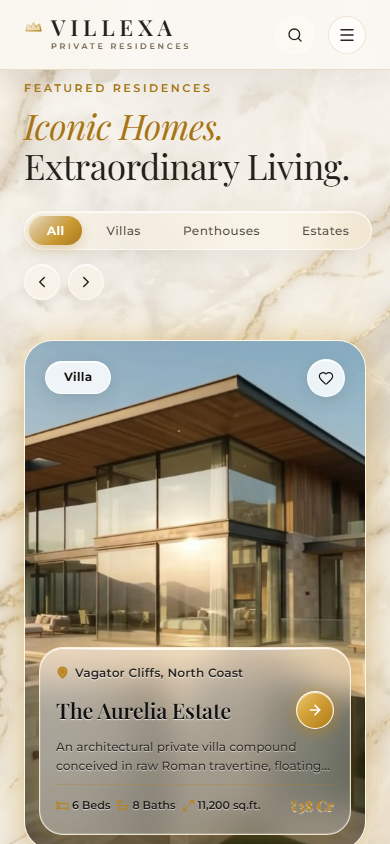
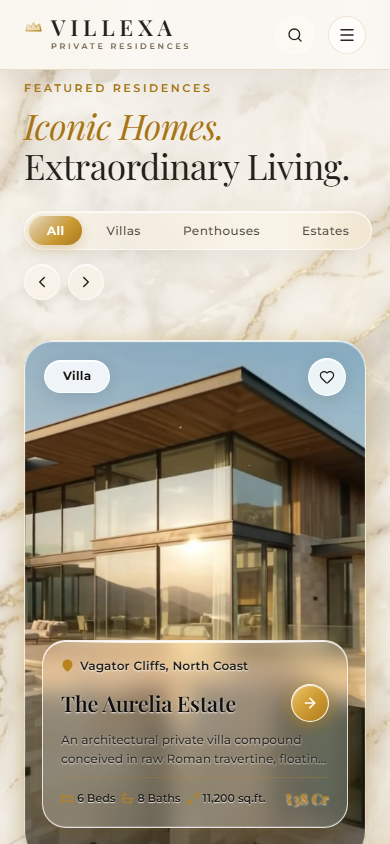
Update

Changed region(s): [[0.0615, 0.4005, 0.9538, 1.0], [0.4308, 0.5237, 0.4923, 0.5545], [0.1231, 0.4005, 0.1538, 0.4313]]

diff --git a/src/components/property/PropertyCard.tsx b/src/components/property/PropertyCard.tsx
@@ -91,22 +91,32 @@ export const PropertyCard: React.FC<PropertyCardProps> = ({ property, priority =
       style={{
         position: 'relative',
         borderRadius: '28px',
-        overflow: 'hidden',
+        overflow: 'visible',
         display: 'flex',
         flexDirection: 'column',
         justifyContent: 'space-between',
-        minHeight: '510px',
-        border: '1.5px solid rgba(255, 248, 230, 0.95)',
-        borderColor: isHovered ? 'rgba(245, 215, 140, 1)' : 'rgba(255, 248, 230, 0.95)',
-        boxShadow: isHovered
-          ? '0 24px 56px -8px rgba(45, 32, 20, 0.18), 0 0 36px rgba(225, 180, 85, 0.55), 0 0 75px rgba(225, 180, 85, 0.30), inset 0 1px 2px rgba(255, 255, 255, 0.95)'
-          : '0 18px 45px -10px rgba(45, 32, 20, 0.14), 0 0 28px rgba(225, 180, 85, 0.40), 0 0 55px rgba(225, 180, 85, 0.20), inset 0 1px 1px rgba(255, 255, 255, 0.9)',
+        minHeight: '520px',
         transform: 'translateY(0)',
-        transition: 'border-color 0.4s ease, box-shadow 0.4s ease',
-        backgroundColor: '#FAF8F5'
+        transition: 'all 0.4s ease'
       }}
     >
-      {/* 1. LARGE ARCHITECTURAL PHOTOGRAPHY (Main Visual Backdrop) */}
+      {/* Outer Border & Subtle Frame Glow (zIndex: 2, non-blocking) */}
+      <div
+        style={{
+          position: 'absolute',
+          inset: 0,
+          borderRadius: '28px',
+          border: isHovered ? '1.5px solid rgba(250, 220, 150, 0.95)' : '1.5px solid rgba(255, 248, 230, 0.90)',
+          boxShadow: isHovered
+            ? '0 20px 48px rgba(45, 32, 20, 0.16), 0 0 30px rgba(220, 175, 75, 0.45), inset 0 1px 2px rgba(255, 255, 255, 0.95)'
+            : '0 14px 36px rgba(45, 32, 20, 0.12), 0 0 20px rgba(220, 175, 75, 0.30), inset 0 1px 1px rgba(255, 255, 255, 0.90)',
+          pointerEvents: 'none',
+          zIndex: 2,
+          transition: 'border-color 0.4s ease, box-shadow 0.4s ease'
+        }}
+      />
+
+      {/* 1. LARGE ARCHITECTURAL PHOTOGRAPHY (Main Visual Backdrop, clipped to 28px radius) */}
       <div
         style={{
           position: 'absolute',
@@ -114,7 +124,9 @@ export const PropertyCard: React.FC<PropertyCardProps> = ({ property, priority =
           width: '100%',
           height: '100%',
           overflow: 'hidden',
-          zIndex: 1
+          borderRadius: '28px',
+          zIndex: 1,
+          backgroundColor: '#FAF8F5'
         }}
       >
         {/* Video Preview or Cover Image — Stable on hover */}
@@ -169,7 +181,7 @@ export const PropertyCard: React.FC<PropertyCardProps> = ({ property, priority =
       <div
         style={{
           position: 'relative',
-          zIndex: 3,
+          zIndex: 4,
           padding: '18px 20px',
           display: 'flex',
           justifyContent: 'space-between',
@@ -230,26 +242,26 @@ export const PropertyCard: React.FC<PropertyCardProps> = ({ property, priority =
         className="property-glass-card glass-panel-integrated floating-glass-panel"
         style={{
           position: 'relative',
-          zIndex: 3,
-          margin: '0 14px 14px 14px',
+          zIndex: 4,
+          margin: '0 18px 24px 18px',
           marginTop: 'auto',
-          padding: '16px 16px',
+          padding: '16px 18px',
           display: 'flex',
           flexDirection: 'column',
           gap: '9px',
           borderRadius: '24px',
           background: isHovered
-            ? 'linear-gradient(145deg, rgba(255, 252, 246, 0.52) 0%, rgba(246, 239, 224, 0.38) 100%)'
-            : 'linear-gradient(145deg, rgba(255, 252, 246, 0.46) 0%, rgba(246, 239, 224, 0.32) 100%)',
-          backdropFilter: 'blur(16px) saturate(125%)',
-          WebkitBackdropFilter: 'blur(16px) saturate(125%)',
+            ? 'rgba(246, 239, 224, 0.28)'
+            : 'rgba(246, 239, 224, 0.24)',
+          backdropFilter: 'blur(12px) saturate(155%)',
+          WebkitBackdropFilter: 'blur(12px) saturate(155%)',
           border: isHovered
-            ? '1px solid rgba(255, 255, 255, 0.95)'
-            : '1px solid rgba(255, 248, 230, 0.82)',
-          transform: isHovered && !prefersReducedMotion ? 'translateY(-10px)' : 'translateY(0)',
+            ? '1px solid rgba(255, 255, 255, 0.92)'
+            : '1px solid rgba(255, 255, 255, 0.78)',
+          transform: isHovered && !prefersReducedMotion ? 'translateY(-16px)' : 'translateY(-8px)',
           boxShadow: isHovered
-            ? '0 24px 50px rgba(45, 32, 20, 0.22), 0 0 35px rgba(225, 180, 75, 0.50), 0 0 70px rgba(225, 180, 75, 0.25), inset 0 1px 1.5px rgba(255, 255, 255, 1), inset 0 -1px 1px rgba(255, 255, 255, 0.35)'
-            : '0 16px 36px rgba(45, 32, 20, 0.16), 0 0 25px rgba(225, 180, 75, 0.35), 0 0 50px rgba(225, 180, 75, 0.18), inset 0 1px 1px rgba(255, 255, 255, 0.92), inset 0 -1px 1px rgba(255, 255, 255, 0.20)',
+            ? '0 28px 52px rgba(42, 27, 12, 0.28), 0 12px 22px rgba(42, 27, 12, 0.16), 0 0 35px rgba(218, 169, 75, 0.45), 0 0 65px rgba(218, 169, 75, 0.22), inset 0 1.5px 0 rgba(255, 255, 255, 1.0), inset 0 -1px 0 rgba(255, 255, 255, 0.30)'
+            : '0 20px 38px rgba(42, 27, 12, 0.22), 0 8px 16px rgba(42, 27, 12, 0.12), 0 0 25px rgba(218, 169, 75, 0.30), 0 0 50px rgba(218, 169, 75, 0.14), inset 0 1px 0 rgba(255, 255, 255, 0.90), inset 0 -1px 0 rgba(255, 255, 255, 0.20)',
           transition: 'transform 400ms cubic-bezier(0.2, 0.75, 0.25, 1), box-shadow 400ms ease, border-color 400ms ease, background 400ms ease'
         }}
       >
@@ -263,9 +275,11 @@ export const PropertyCard: React.FC<PropertyCardProps> = ({ property, priority =
             height: '2.5px',
             background: 'linear-gradient(90deg, transparent 0%, rgba(255, 255, 255, 0.98) 25%, #FFFBEA 50%, rgba(255, 255, 255, 0.98) 75%, transparent 100%)',
             pointerEvents: 'none',
-            boxShadow: '0 0 14px rgba(255, 255, 255, 1), 0 0 24px rgba(240, 200, 110, 0.85)',
-            opacity: isHovered ? 1 : 0.92,
-            transition: 'opacity 0.35s ease'
+            boxShadow: isHovered
+              ? '0 0 16px rgba(255, 255, 255, 1), 0 0 28px rgba(245, 215, 130, 0.95)'
+              : '0 0 12px rgba(255, 255, 255, 0.95), 0 0 22px rgba(240, 200, 110, 0.80)',
+            opacity: isHovered ? 1 : 0.88,
+            transition: 'opacity 0.35s ease, box-shadow 0.35s ease'
           }}
         />
 
@@ -275,14 +289,14 @@ export const PropertyCard: React.FC<PropertyCardProps> = ({ property, priority =
             display: 'inline-flex',
             alignItems: 'center',
             gap: '6px',
-            color: '#24211C',
+            color: '#201D18',
             fontSize: '11.5px',
             letterSpacing: '0.04em',
             fontWeight: 600,
-            textShadow: '0 1px 1px rgba(255, 255, 255, 0.7)'
+            textShadow: '0 1px 2px rgba(255, 255, 255, 0.85)'
           }}
         >
-          <MapPin size={13} strokeWidth={2.4} color="#B8831E" fill="#B8831E" fillOpacity={0.8} />
+          <MapPin size={13} strokeWidth={2.4} color="#B8831E" fill="#B8831E" />
           <span>{locationString}</span>
         </div>
 
@@ -292,12 +306,12 @@ export const PropertyCard: React.FC<PropertyCardProps> = ({ property, priority =
             style={{
               fontSize: 'clamp(1.35rem, 3.8vw, 1.55rem)',
               fontFamily: 'var(--font-serif)',
-              color: '#12100E',
-              fontWeight: 550,
+              color: '#110F0D',
+              fontWeight: 600,
               lineHeight: 1.15,
               margin: 0,
               letterSpacing: '-0.01em',
-              textShadow: '0 1px 1px rgba(255, 255, 255, 0.8)'
+              textShadow: '0 1px 2px rgba(255, 255, 255, 0.90)'
             }}
           >
             <Link
@@ -341,7 +355,7 @@ export const PropertyCard: React.FC<PropertyCardProps> = ({ property, priority =
         <p
           style={{
             fontSize: '12px',
-            color: '#28241E',
+            color: '#26221C',
             lineHeight: 1.55,
             margin: 0,
             display: '-webkit-box',
@@ -349,7 +363,7 @@ export const PropertyCard: React.FC<PropertyCardProps> = ({ property, priority =
             WebkitBoxOrient: 'vertical',
             overflow: 'hidden',
             fontWeight: 450,
-            textShadow: '0 1px 1px rgba(255, 255, 255, 0.6)'
+            textShadow: '0 1px 2px rgba(255, 255, 255, 0.80)'
           }}
         >
           {property.description || property.tagline}
@@ -362,12 +376,12 @@ export const PropertyCard: React.FC<PropertyCardProps> = ({ property, priority =
             alignItems: 'center',
             justifyContent: 'space-between',
             paddingTop: '9px',
-            borderTop: '1px solid rgba(184, 131, 30, 0.28)',
+            borderTop: '1px solid rgba(184, 131, 30, 0.30)',
             fontSize: '11px',
-            color: '#1C1A17',
+            color: '#1C1915',
             fontWeight: 550,
             gap: '6px',
-            textShadow: '0 1px 1px rgba(255, 255, 255, 0.6)'
+            textShadow: '0 1px 1px rgba(255, 255, 255, 0.80)'
           }}
         >
           <div style={{ display: 'flex', alignItems: 'center', gap: '6px', minWidth: 0, flexWrap: 'nowrap' }}>
@@ -397,7 +411,7 @@ export const PropertyCard: React.FC<PropertyCardProps> = ({ property, priority =
                 fontSize: '14.5px',
                 whiteSpace: 'nowrap',
                 flexShrink: 0,
-                textShadow: '0 1px 1px rgba(255, 255, 255, 0.8)'
+                textShadow: '0 1px 2px rgba(255, 255, 255, 0.90)'
               }}
             >
               {formattedPrice}

diff --git a/src/styles/main.css b/src/styles/main.css
@@ -585,25 +585,67 @@ a {
   }
 }
 
+/* ==========================================================================
+   4. LUXURY PROPERTY CARDS (Floating Elevated Glass Plaque & Exterior Golden Halo)
+   ========================================================================== */
+
+.luxury-property-card {
+  position: relative;
+  overflow: visible !important;
+  display: flex;
+  flex-direction: column;
+  justify-content: space-between;
+  border-radius: 28px;
+  background-color: transparent;
+  transition: transform 400ms cubic-bezier(0.2, 0.75, 0.25, 1);
+}
+
+/* Outer Champagne-Gold Aura extending beyond card border onto marble */
+.luxury-property-card::before {
+  content: '';
+  position: absolute;
+  inset: -10px;
+  border-radius: 36px;
+  background: radial-gradient(ellipse at 50% 50%, rgba(225, 180, 85, 0.45) 0%, rgba(225, 180, 85, 0.20) 45%, transparent 75%);
+  filter: blur(14px);
+  -webkit-filter: blur(14px);
+  z-index: 0;
+  pointer-events: none;
+  opacity: 0.85;
+  transition: opacity 400ms ease, filter 400ms ease, inset 400ms ease;
+}
+
+.luxury-property-card:hover::before {
+  opacity: 1;
+  inset: -14px;
+  filter: blur(18px);
+  -webkit-filter: blur(18px);
+  background: radial-gradient(ellipse at 50% 50%, rgba(235, 190, 95, 0.60) 0%, rgba(225, 180, 85, 0.28) 45%, transparent 75%);
+}
+
 /* 4. PROPERTY INFORMATION CARDS (Floating elevated translucent glass plaque transmitting photography) */
 .property-glass-card,
 .glass-property-card,
 .glass-panel-integrated,
 .floating-glass-panel {
-  background: rgba(246, 239, 224, 0.32);
-  backdrop-filter: blur(16px) saturate(125%);
-  -webkit-backdrop-filter: blur(16px) saturate(125%);
+  position: relative;
+  background: rgba(246, 239, 224, 0.24);
+  backdrop-filter: blur(12px) saturate(155%);
+  -webkit-backdrop-filter: blur(12px) saturate(155%);
 
-  border: 1px solid rgba(255, 248, 230, 0.78);
-  border-radius: 26px;
+  border: 1px solid rgba(255, 255, 255, 0.78);
+  border-radius: 24px;
 
   box-shadow:
-    0 16px 32px rgba(45, 32, 20, 0.16),
-    0 5px 12px rgba(45, 32, 20, 0.08),
-    0 0 14px rgba(212, 175, 55, 0.14),
-    inset 0 1px 0 rgba(255, 255, 255, 0.80);
+    0 20px 38px rgba(42, 27, 12, 0.22),
+    0 8px 16px rgba(42, 27, 12, 0.12),
+    0 0 25px rgba(218, 169, 75, 0.30),
+    0 0 50px rgba(218, 169, 75, 0.14),
+    inset 0 1px 0 rgba(255, 255, 255, 0.90),
+    inset 0 -1px 0 rgba(255, 255, 255, 0.20);
 
   color: #1E1C19;
+  transform: translateY(-8px);
   transition:
     transform 400ms cubic-bezier(0.2, 0.75, 0.25, 1),
     box-shadow 400ms ease,
@@ -611,19 +653,21 @@ a {
     background 400ms ease;
 }
 
+.luxury-property-card:hover .floating-glass-panel,
 .property-glass-card:hover,
 .glass-property-card:hover,
 .glass-panel-integrated:hover,
 .floating-glass-panel:hover {
-  transform: translateY(-10px);
-  background: rgba(246, 239, 224, 0.38);
-  border-color: rgba(255, 255, 255, 0.92);
+  transform: translateY(-16px);
+  background: rgba(246, 239, 224, 0.28);
+  border-color: rgba(255, 255, 255, 0.95);
   box-shadow:
-    0 24px 48px rgba(45, 32, 20, 0.22),
-    0 8px 18px rgba(45, 32, 20, 0.12),
-    0 0 24px rgba(212, 175, 55, 0.28),
-    inset 0 1px 0 rgba(255, 255, 255, 0.95),
-    inset 0 -1px 0 rgba(255, 255, 255, 0.25);
+    0 28px 52px rgba(42, 27, 12, 0.28),
+    0 12px 22px rgba(42, 27, 12, 0.16),
+    0 0 35px rgba(218, 169, 75, 0.45),
+    0 0 65px rgba(218, 169, 75, 0.22),
+    inset 0 1.5px 0 rgba(255, 255, 255, 1.0),
+    inset 0 -1px 0 rgba(255, 255, 255, 0.30);
 }
 
 /* 5. COLLECTION CARDS (Photo-backed cards with floating glass plaque) */
